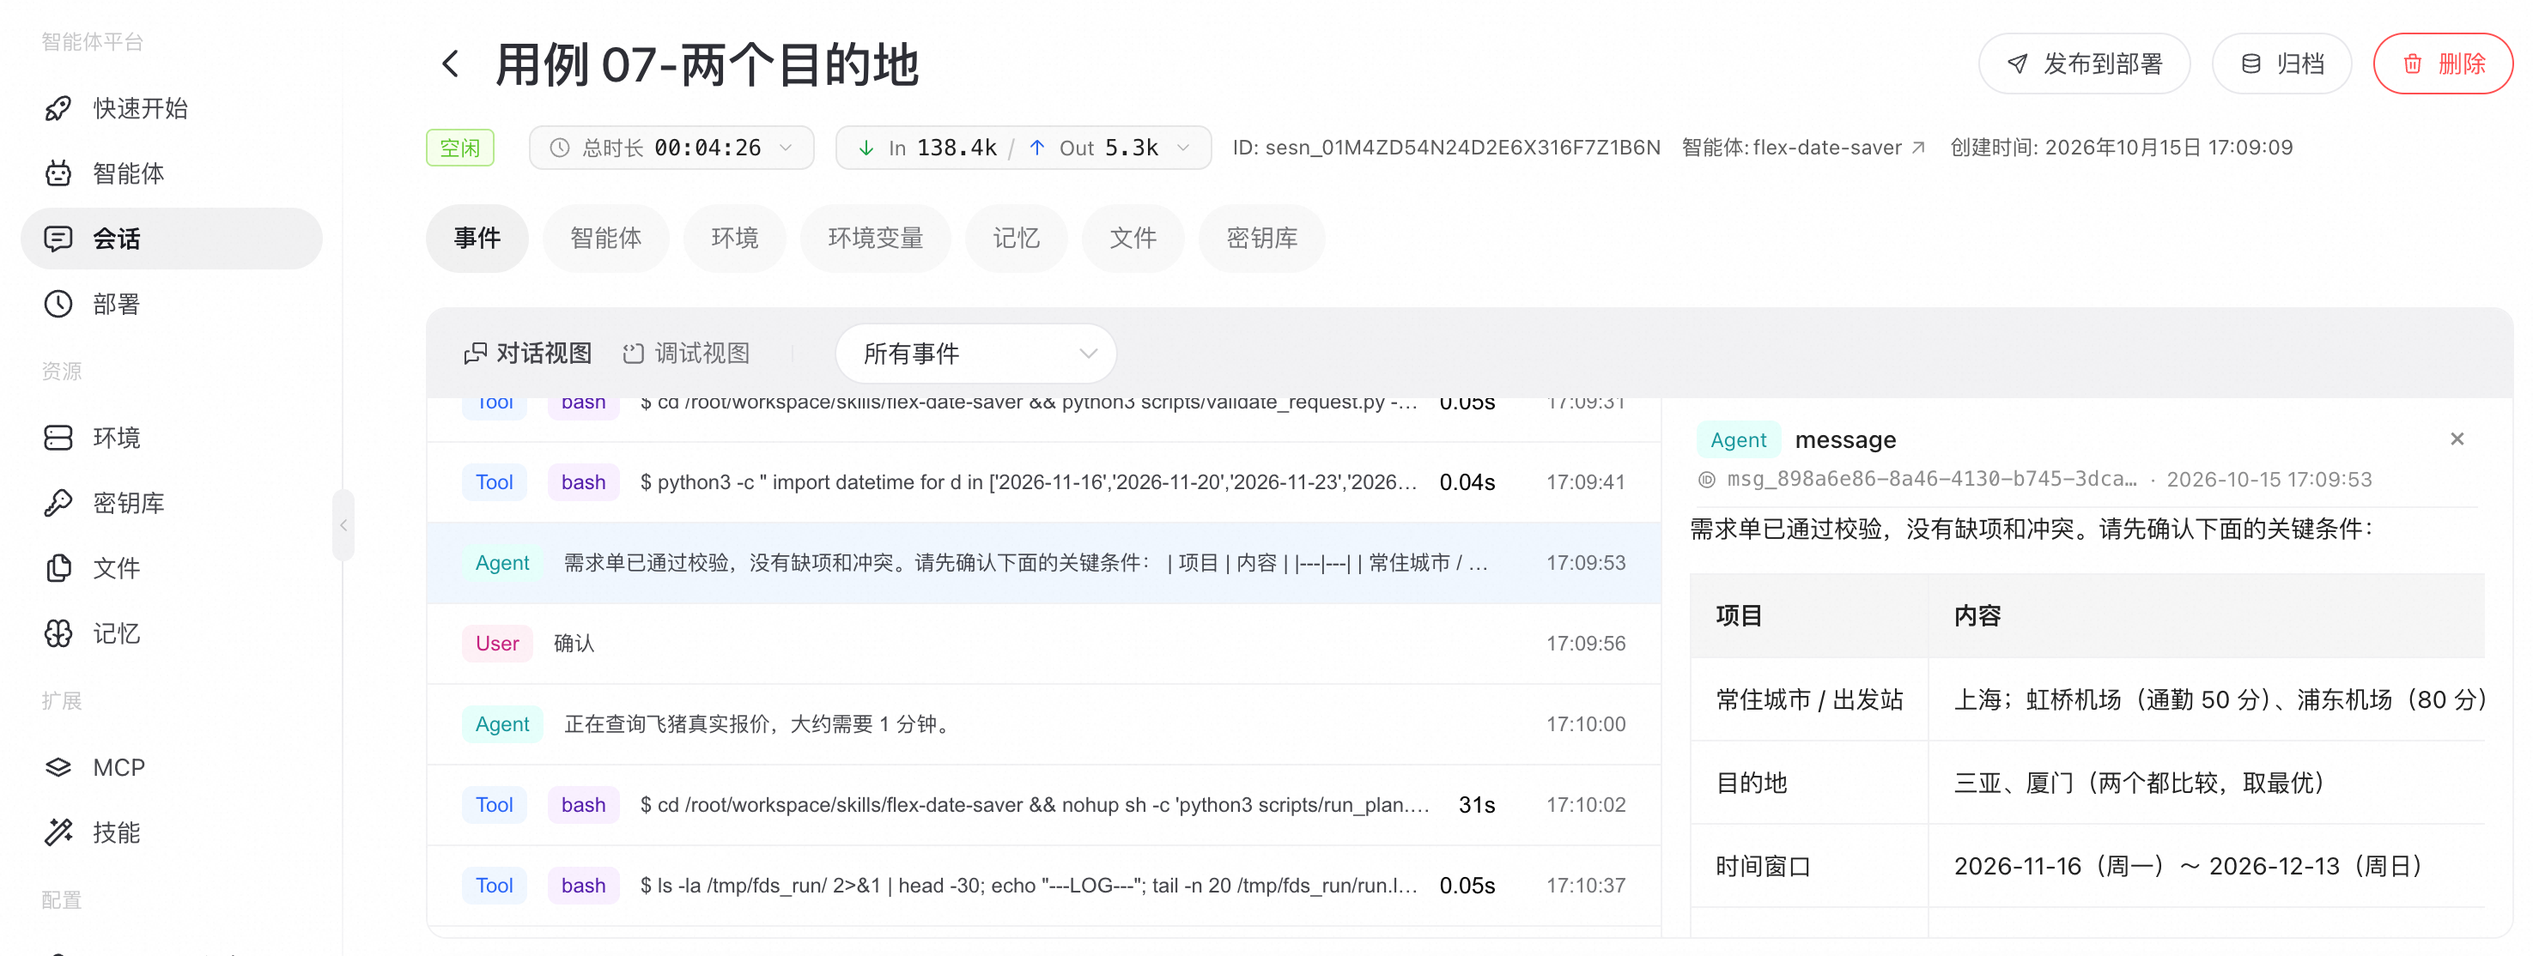
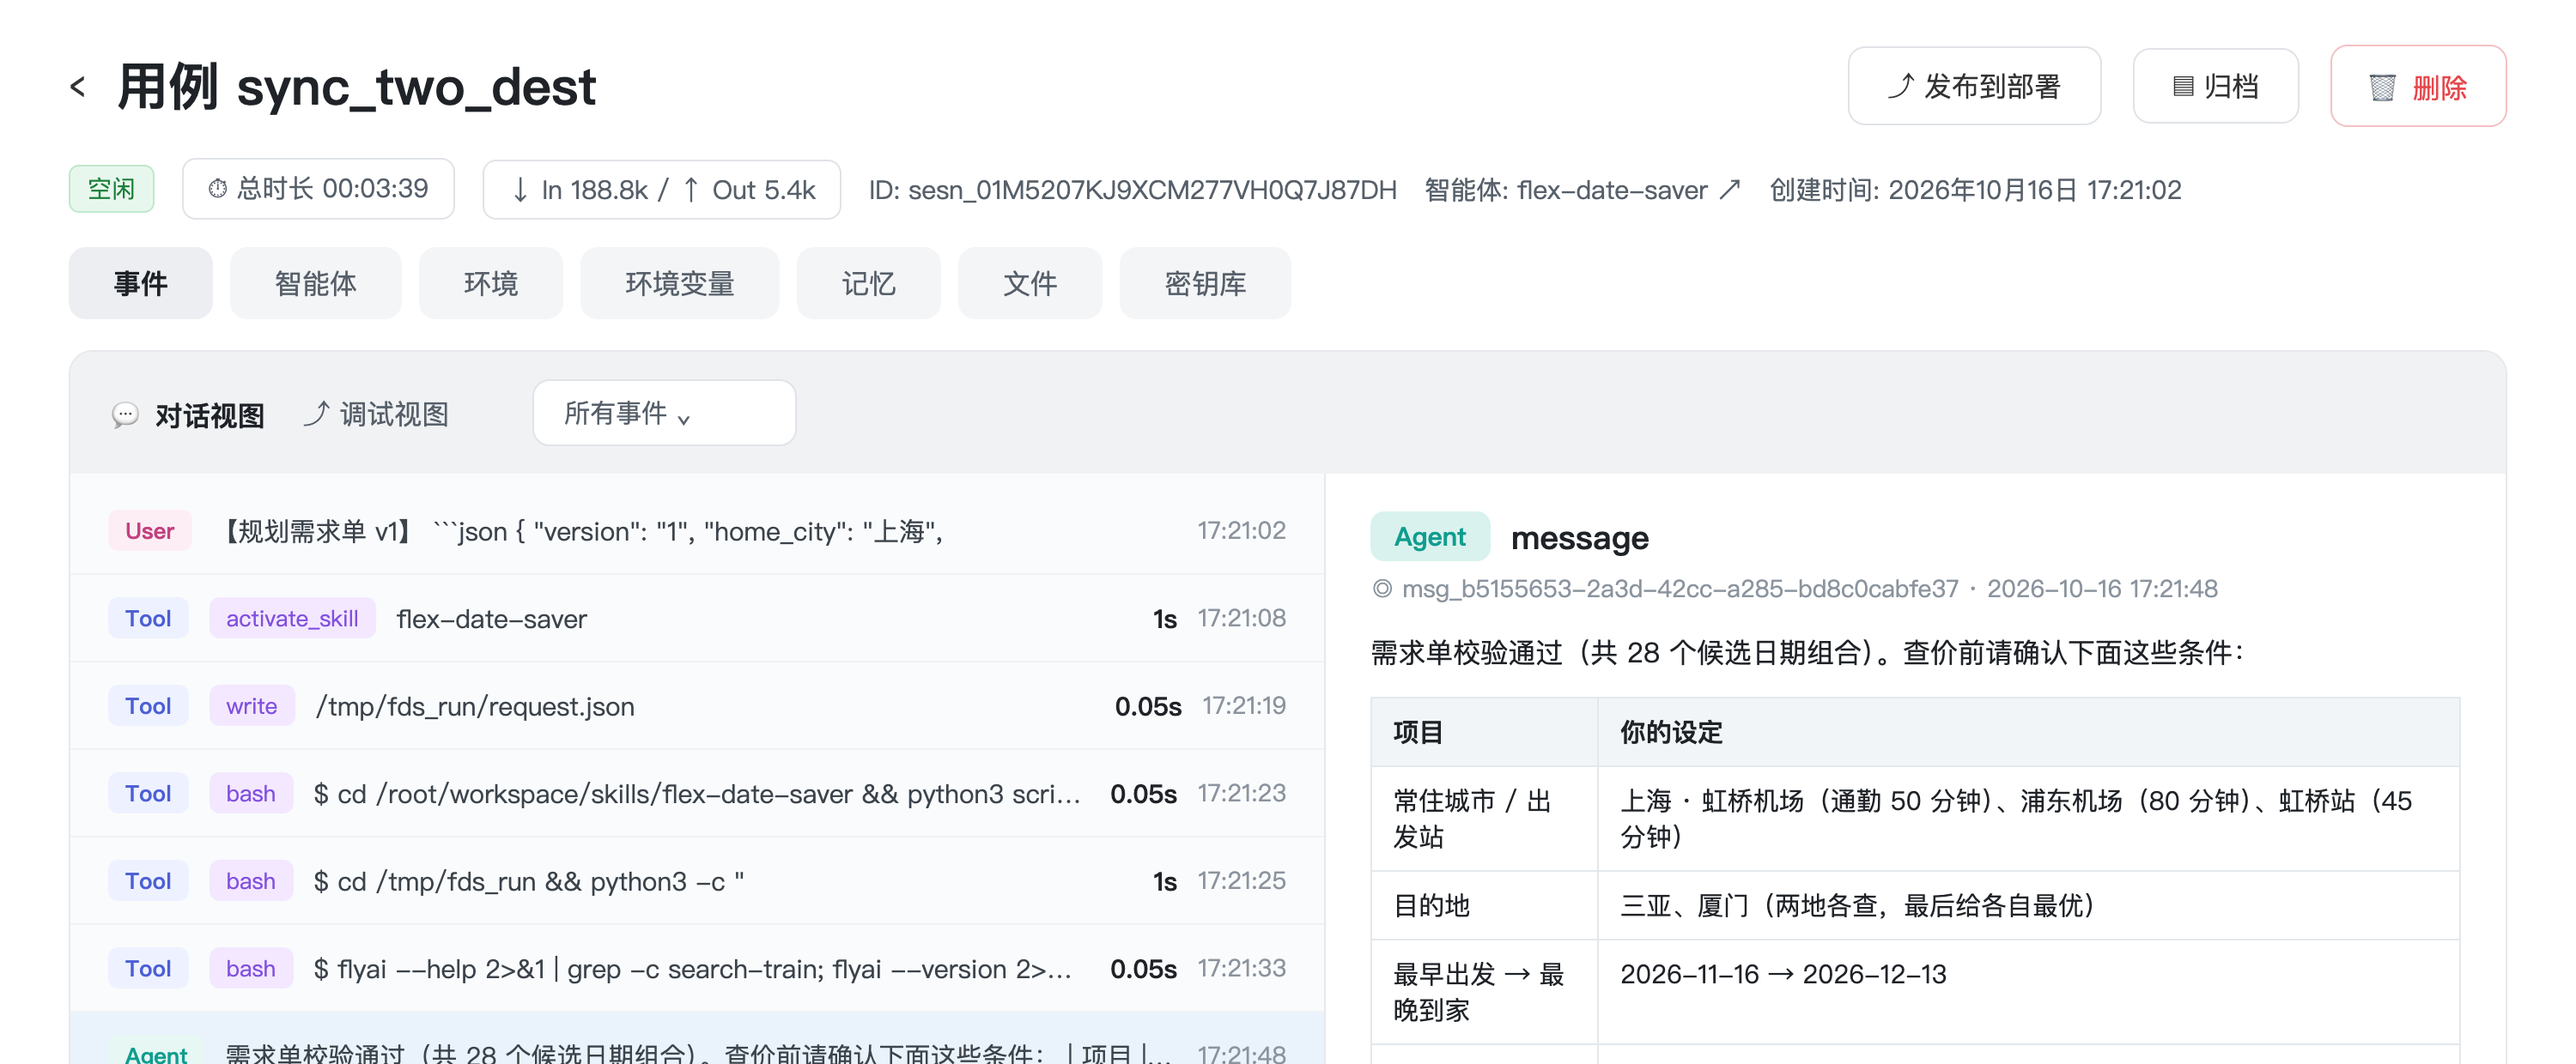
报名文档与截图同步到 Skill 1.4 新口径：案例改为 10-16 会话（厦门 12-03 总价 885、只含第一晚）；重渲染 5 张百炼截图与表单页截图为新 UI；测试报告补 B9/B10 两条同步用例、单测 37、用例 10

diff --git a/docs/test-report.md b/docs/test-report.md
@@ -1,16 +1,16 @@
 # 测试报告
 
-- 更新时间：2026-10-15
-- 被测版本：自建 Skill `flex-date-saver` 1.3；百炼智能体 `agent_01M4YWBRFG6Y0CRW8F8E5RN2YG` 第 7 版（qwen3.8-max，挂载自建 Skill 1.3 + 百炼官方 `flyai`）；飞猪 Key 已加白，限流为 QPS ≤2、单次规划最多 40 次调用（B1–B5 在加白前用旧版本跑）；`@fly-ai/flyai-cli@1.0.16`
+- 更新时间：2026-10-16（同步「只排第一晚住宿 / 晚数多选 / 单休」后的复验；10-15 及之前的运行记录保留原样）
+- 被测版本：自建 Skill `flex-date-saver` 1.4；百炼智能体 `agent_01M4YWBRFG6Y0CRW8F8E5RN2YG` 第 8 版（qwen3.8-max，挂载自建 Skill 1.4 + 百炼官方 `flyai`）；飞猪 Key 已加白，限流为 QPS ≤2、单次规划最多 40 次调用（B1–B8 在旧版本跑）；`@fly-ai/flyai-cli@1.0.16`
 - 数据来源：所有报价都来自飞猪接口的真实调用（正式 Key，结果中没有「体验模式」）。原始返回保存在 `tests/fixtures/real/`（24 份，阶段 0 核验）和 `docs/demo-cache/flyai/`（71 份，演示回放）。仓库里没有任何编造的接口数据。
 
 ## 1. 结论
 
 | 层级 | 覆盖 | 结果 |
 |---|---|---|
-| 单元测试（不联网） | 校验、请假计算、候选生成、查价过滤、时段与总价、排序、回放一致性 | 35/35 通过 |
+| 单元测试（不联网） | 校验、请假计算、候选生成、查价过滤、时段与总价、排序、回放一致性 | 37/37 通过 |
 | 本机端到端（真实查价） | 样例、特种兵 + 切换目标、两个目的地、跨春节预估假期 | 4/4 跑出方案；跨春节的结果来自 15:18 的真实调用，后续重跑被风控拦下 |
-| 百炼端到端（真实模型） | 样例、自由描述、条件冲突、只改目标、Key 失效、特种兵、两个目的地、跨春节 | 8/8 通过 |
+| 百炼端到端（真实模型） | 样例、自由描述、条件冲突、只改目标、Key 失效、特种兵、两个目的地、跨春节、同步新特性（北京）、同步两目的地 | 10/10 通过 |
 
 ## 2. 单元测试
 
@@ -20,7 +20,7 @@
 |---|---|---|
 | `test_stage12.py` | 19 | 默认值补全；缺项与冲突识别（目的地超 2 个、晚数颠倒、窗口在过去、可请假日期全在窗口外、价格带颠倒）；表单文本解析；下班后出发不请假；中间工作日必须可请假；请假上限；特种兵早班直接上班；春节按预估假期计算；无可行组合时提示 |
 | `test_stage3.py` | 8 | 演示缓存二次运行 0 次实时调用；某日无航班数据不崩溃；中转等待超过 3 小时剔除；邻近城市「火车 + 换乘 + 航班」衔接时间校验；酒店星级、区域过滤（区域关键词不生效时放宽并提示）；按名称识别连锁品牌；回放缺失时不联网；找不到 CLI 时立即停止 |
-| `test_stage4.py` | 8 | 可玩时段口径（17–18 点不计）；特种兵凌晨落地那晚不订酒店；三种目标的排序；前 3 名出发日期两两不同；两个目的地各自最优；预算过滤；同一请求回放 3 次结果完全一致 |
+| `test_stage4.py` | 10 | 可玩时段口径（17–18 点不计）；特种兵凌晨落地那晚不订酒店；三种目标的排序；前 3 名出发日期两两不同；两个目的地各自最优；预算过滤；同一请求回放 3 次结果完全一致；只排第一晚的总价口径；单休 custom_workdays；晚数多选 options |
 
 ## 3. 本机端到端（真实查价）
 
@@ -50,8 +50,10 @@
 | B4 | 只改目标（`10-只改目标.md`） | 同 B1 | 只重新排序，不重新查价，不重新复述 | 按「多玩优先」重排，并说明使用的是已有报价、没有重新查价 | 通过（第 1 版回复里出现了内部字段名，已在提示词中禁止，智能体更新到第 2 版） |
 | B5 | 飞猪 Key 失效（`11-密钥失效兜底.md`） | `sesn_01M4Z1GPQDKXQW0BWMFY6D6CZ8` | 不展示任何价格，提示检查 Key | 明确说明接口返回 401、没有拿到报价、不会编造价格，条件已保留，Key 修好后可直接重查 | 通过 |
 | B6 | 特种兵 + 切换目标（`06-特种兵与只改目标.md`） | `sesn_01M4ZCWWNEA0Z8GP4PMW770P4W`（17:00 重跑） | 出方案，切换目标后重排 | 2 个方案：① 11-20 周五 → 11-22 周日，硕放直飞，请 1 天、可玩 5 个时段、¥3856；② 11-28 周六 → 11-30 周一，苏州动车转上海起飞，请 1 天、3 个时段、¥2526。切换「多玩优先」只重排、未重查，并说明顺序为何不变 | 通过（14:20 那次被风控拦下时，兜底同样正确：如实说明限流、不给价格） |
-| B7 | 两个目的地（`07-两个目的地.md`） | `sesn_01M4ZD54N24D2E6X316F7Z1B6N` | 综合前 3 名 + 各目的地最优 | 前 3：厦门 11-21 → 11-23（6 个时段 ¥1834）、厦门 12-05 → 12-07（5 个时段 ¥1524）、三亚 11-20 → 11-22（5 个时段 ¥3468）；附「各目的地最优方案」表和「为什么有些日期没有方案」 | 通过 |
+| B7 | 两个目的地（`07-两个目的地.md`，10-15 旧口径全晚计费记录） | `sesn_01M4ZD54N24D2E6X316F7Z1B6N` | 综合前 3 名 + 各目的地最优 | 前 3：厦门 11-21 → 11-23（6 个时段 ¥1834）、厦门 12-05 → 12-07（5 个时段 ¥1524）、三亚 11-20 → 11-22（5 个时段 ¥3468）；附「各目的地最优方案」表和「为什么有些日期没有方案」。注：Skill 1.4 起总价只含第一晚，同需求单新口径结果见 B10 | 通过 |
 | B8 | 跨春节预估假期（`08-跨春节预估假期.md`） | `sesn_01M4ZDDDXNC21T9VQBVD01E5J1` | 春节期间不用请假，提示预估 | 9 组候选中 6 组可行：① 02-03 → 02-07 请 1 天 ¥8852；② 02-10 → 02-14 请 0 天 ¥9260；③ 02-09 → 02-13 请 0 天 ¥9420，均 9 个时段、带「跨预估假期」标签，并提示「2027 年放假安排为预估，以国务院公布为准」 | 通过 |
+| B9 | 同步新特性：只排第一晚 + 单休（`sync_new_features.md`） | `sesn_01M51YVNGYQYVRA1P0DHJSQCNK` | Skill 1.4 后总价只含第一晚；周六标上班日时 2 晚方案无解要报冲突；无高德 Key 时位置筛选退化并提示 | 与本机真实查价完全一致：北京 11-20 → 11-22，总价 ¥2354 = 交通 ¥2178 + 第一晚 ¥176，flags 带「只含第一晚住宿，其余 1 晚未计入总价」；复述表含「周末是否上班」行；明确说明未配高德 Key、没做位置筛选 | 通过 |
+| B10 | 同步两目的地（`sync_two_dest.md`，报名文档同案例） | `sesn_01M5207KJ9XCM277VH0Q7J87DH` | 同 B7 需求单在新口径下的结果；三个方案总价拆分自洽 | 前 3：厦门 12-03 → 12-06（6 个时段 ¥885 = 400×2 + 85）、三亚 11-20 → 11-22（6 个时段 ¥3971 = 1921×2 + 129）、厦门 12-05 → 12-07（5 个时段 ¥1425 = 670×2 + 85）；附各目的地最优与不可行原因；报名文档截图已同步重渲染 | 通过 |
 
 ## 5. 测试中发现并已修复的问题
 

diff --git a/docs/submission.md b/docs/submission.md
@@ -43,7 +43,7 @@
 - 所有价格、时段数、请假天数都由脚本根据飞猪的真实返回计算，模型只负责理解需求和解释结果，不自己估算数字。同一输入多次运行，结果完全一致。
 - 没有可行方案时会说明卡在哪条约束、怎么放宽。例如：「下班后出发的日期都赶不上 22 点前起飞的航班，接受去程红眼航班可以解锁」。
 - 交互上一次问清楚，不反复确认：表单一次填完；用户用一句话描述时，只列出缺的项并给默认值；条件互相冲突时，一条消息把所有问题和可选改法说清楚；开始查价前先复述一遍条件，让用户确认。
-- 有 35 个单元测试，本机做了 4 个场景的真实查价，在百炼上用真实对话跑了 8 条用例并全部通过（含条件冲突追问、飞猪 Key 失效时的兜底）。测试报告见仓库 `docs/test-report.md`。
+- 有 37 个单元测试，本机做了 4 个场景的真实查价，在百炼上用真实对话跑了 10 条用例并全部通过（含条件冲突追问、飞猪 Key 失效时的兜底）。测试报告见仓库 `docs/test-report.md`。
 
 **业务价值**：每个方案都对应一组可以直接下单的「机票 / 火车 + 酒店」。错峰推荐还能把需求从高峰日引到平峰日。
 
@@ -66,7 +66,7 @@
 
 ![表单页](https://raw.githubusercontent.com/thinsten/flex-date-saver/main/docs/screenshots/form-filled.png)
 
-**2. 百炼控制台实拍**（会话 `sesn_01M4ZD54N24D2E6X316F7Z1B6N`，左侧为工具调用记录，右侧为智能体回复）
+**2. 百炼控制台实拍**（会话 `sesn_01M5207KJ9XCM277VH0Q7J87DH`，左侧为工具调用记录，右侧为智能体回复）
 
 复述确认：
 
@@ -90,19 +90,19 @@
 
 ![方案明细](https://raw.githubusercontent.com/thinsten/flex-date-saver/main/docs/screenshots/bailian-3-detail.png)
 
-**一个真实案例**（2026-10-15 百炼智能体 + 飞猪实时报价，即上面截图中的会话）
+**一个真实案例**（2026-10-16 百炼智能体 + 飞猪实时报价，即上面截图中的会话）
 
 - **条件**：常住上海，三亚和厦门二选一，玩 2 到 3 晚，2 人；可以请 11-20、11-23、12-04、12-07 中最多 1 天；18:30 下班，只坐直飞；四五星酒店每晚 900 元以内；多玩优先，总预算 6000 元。
-- **前 3 个方案**：
-  1. 厦门 11-21（周六）→ 11-23（周一），请假 1 天，可玩 6 个时段，2 人总价 ¥1834
-  2. 厦门 12-05（周六）→ 12-07（周一），请假 1 天，可玩 5 个时段，¥1524
-  3. 三亚 11-20（周五）→ 11-22（周日），请假 1 天，可玩 5 个时段，¥3468
+- **前 3 个方案**（总价只含交通 × 人数 + 第一晚住宿，其余晚数不计入并明确提示）：
+  1. 厦门 12-03（周四）→ 12-06（周日），请假 1 天，可玩 6 个时段，2 人总价 ¥885
+  2. 三亚 11-20（周五）→ 11-22（周日），请假 1 天，可玩 6 个时段，¥3971
+  3. 厦门 12-05（周六）→ 12-07（周一），请假 1 天，可玩 5 个时段，¥1425
 - **首选方案明细**：
-  - 去程：11-21 14:05 乘 9C8807 从虹桥飞厦门，¥380/人
-  - 回程：11-23 20:10 乘 FM9262 从厦门飞回虹桥，22:45 到家，¥445/人
-  - 酒店：每晚参考起价 ¥92 × 2 晚
-  - 推荐理由：比方案 2 贵 ¥310，但多玩 1 个时段（请假的周一能玩到下午）
-- **会解释没方案的原因**：智能体同时给出「各目的地最优方案」对比，并说明「周五下班后出发的日期赶不上 22 点前起飞的航班，放开去程红眼可解锁」「不接受中转，放开后可能更便宜」。
+  - 去程：12-03 21:00 乘 9C8823 从虹桥飞厦门，¥200/人（下班后出发）
+  - 回程：12-06 07:10 乘 9C8824 从厦门飞回虹桥，09:45 到家，¥200/人
+  - 酒店：只安排第一晚，参考起价 ¥85 × 1 晚 × 1 间（其余 2 晚不计入总价，提示自行安排）
+  - 推荐理由：与方案 2 同样玩 6 个时段、同样请 1 天假，但便宜 ¥3086
+- **会解释没方案的原因**：智能体同时给出「各目的地最优方案」对比，并说明「下班后出发的日期赶不上 22 点前起飞的航班，放开去程红眼可解锁」「不接受中转，放开后可能更便宜」。
 
 其他场景的真实结果（苏州经上海联程出发、特种兵模式、跨春节预估假期）见 `docs/test-report.md`。
 
@@ -110,7 +110,7 @@
 
 - **GitHub**：https://github.com/thinsten/flex-date-saver
 - **在线表单**：https://thinsten.github.io/flex-date-saver/web/（可直接打开填写，生成的需求单可粘贴给智能体）
-- **完整对话记录**：仓库 `docs/test-runs/` 下有 8 条百炼真实会话（含工具调用），不部署也能看到智能体的实际表现
+- **完整对话记录**：仓库 `docs/test-runs/` 下有 10 条百炼真实会话（含工具调用），不部署也能看到智能体的实际表现
 - **智能体运行位置**：部署在作者的百炼 Managed Agent 上（智能体 `flex-date-saver`）；评委如需亲自体验，可按下面「部署到百炼」一条命令部署到自己的百炼工作空间
 - **本地真实查价**：
   ```bash

diff --git a/AGENTS.md b/AGENTS.md
@@ -56,7 +56,7 @@ data/                           ← 网页运行时数据。⚠ 永不进 git
 ## 4. 本地验证（每次改动必做）
 
 ```bash
-python3 -m unittest discover -s tests            # 35 个测试必须全过
+python3 -m unittest discover -s tests            # 37 个测试必须全过
 # 本地起网页（用测试数据目录，密钥从本机文件读）：
 set -a; . ~/.flex-date-saver.env; set +a
 export DASHSCOPE_BASE_URL="https://$WS.cn-beijing.maas.aliyuncs.com/compatible-mode/v1" FDS_PASSWORD=testpw \
